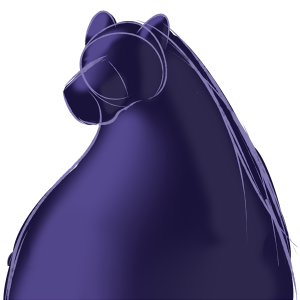
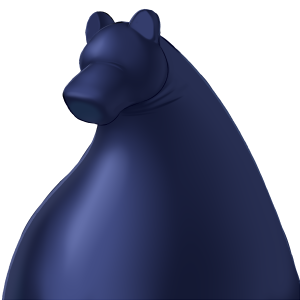
Panthuar tooltip
-Updated panthuar tooltip art

Changed region(s): [[0.0, 0.03, 1.0, 1.0]]

diff --git a/src/Pages/Guarians/Tabs/Lore/Companionship.tsx b/src/Pages/Guarians/Tabs/Lore/Companionship.tsx
@@ -19,7 +19,7 @@ export const Companionship: React.FC<CompanionshipProps> = ({}) => {
         guarians seem to build a complex relationships, actively shaping itself in strange ways in
         order to resonate with those that it befriends
       </p>
-      <h3>Simplicity</h3>
+      <h3>Intelligence</h3>
       <p>PLACEHOLDER - Write about guarian intelligence</p>
       <h3>Perception</h3>
       <p>PLACEHOLDER - Write about how guarians see</p>
